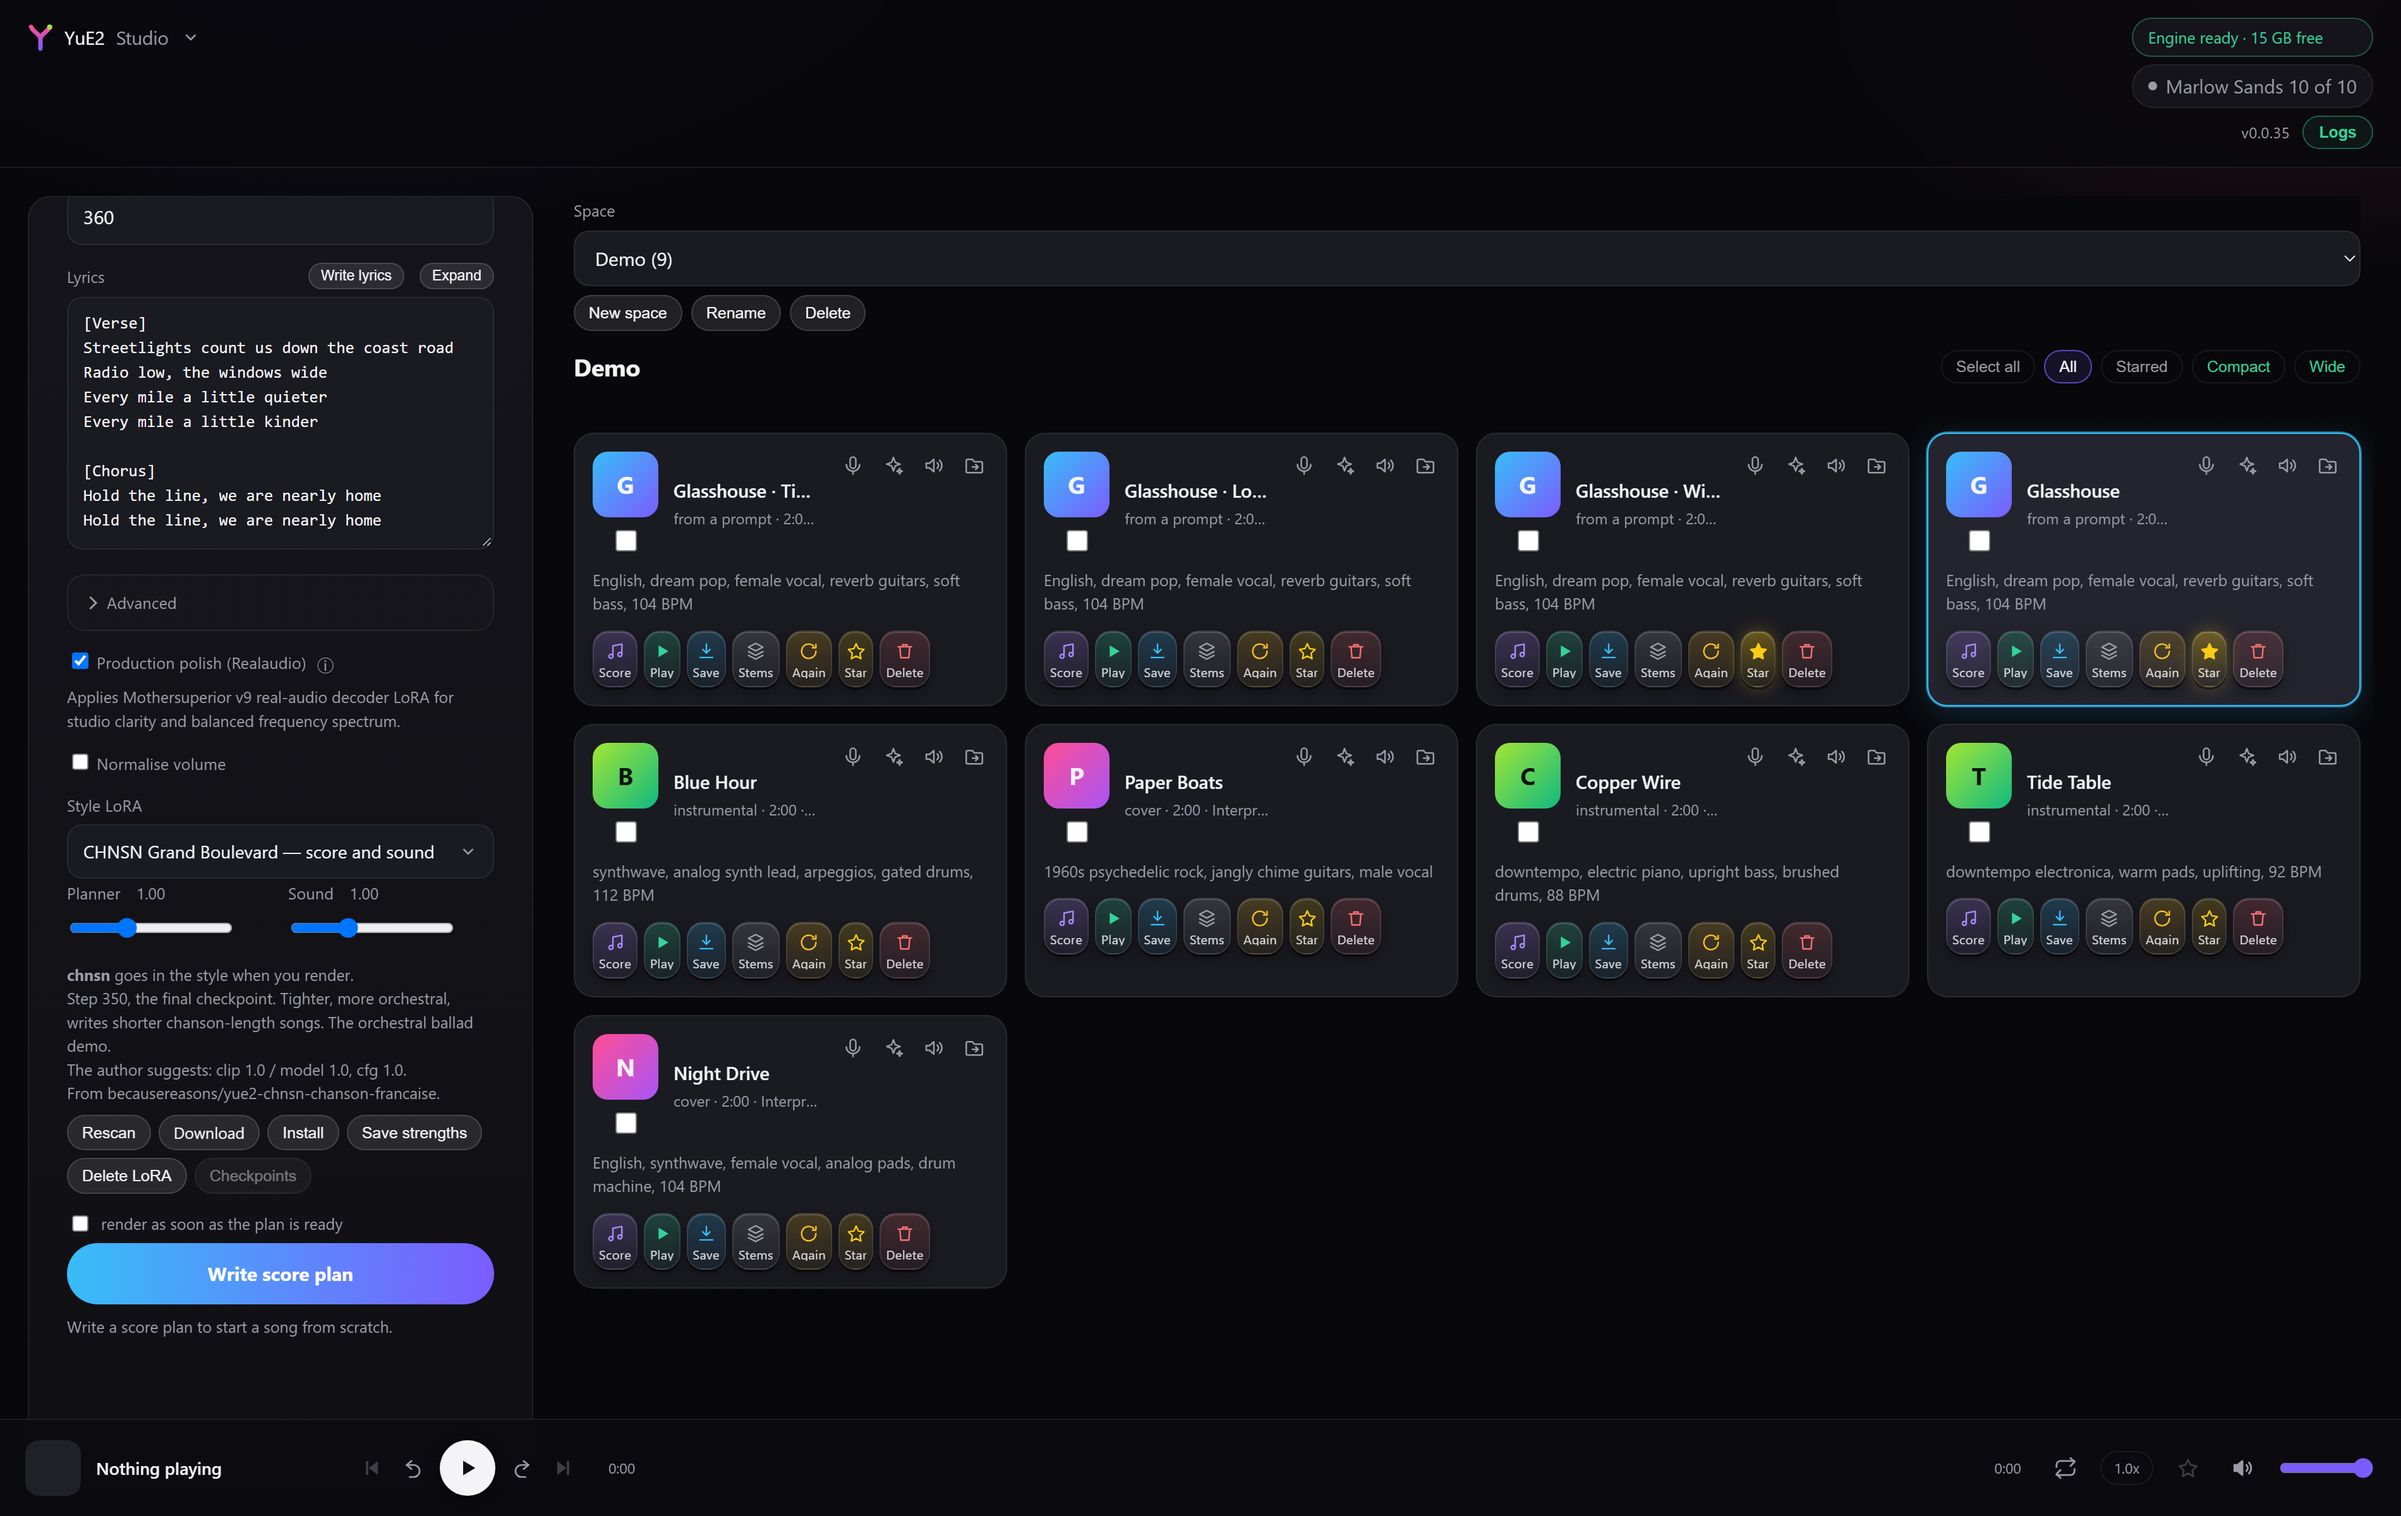
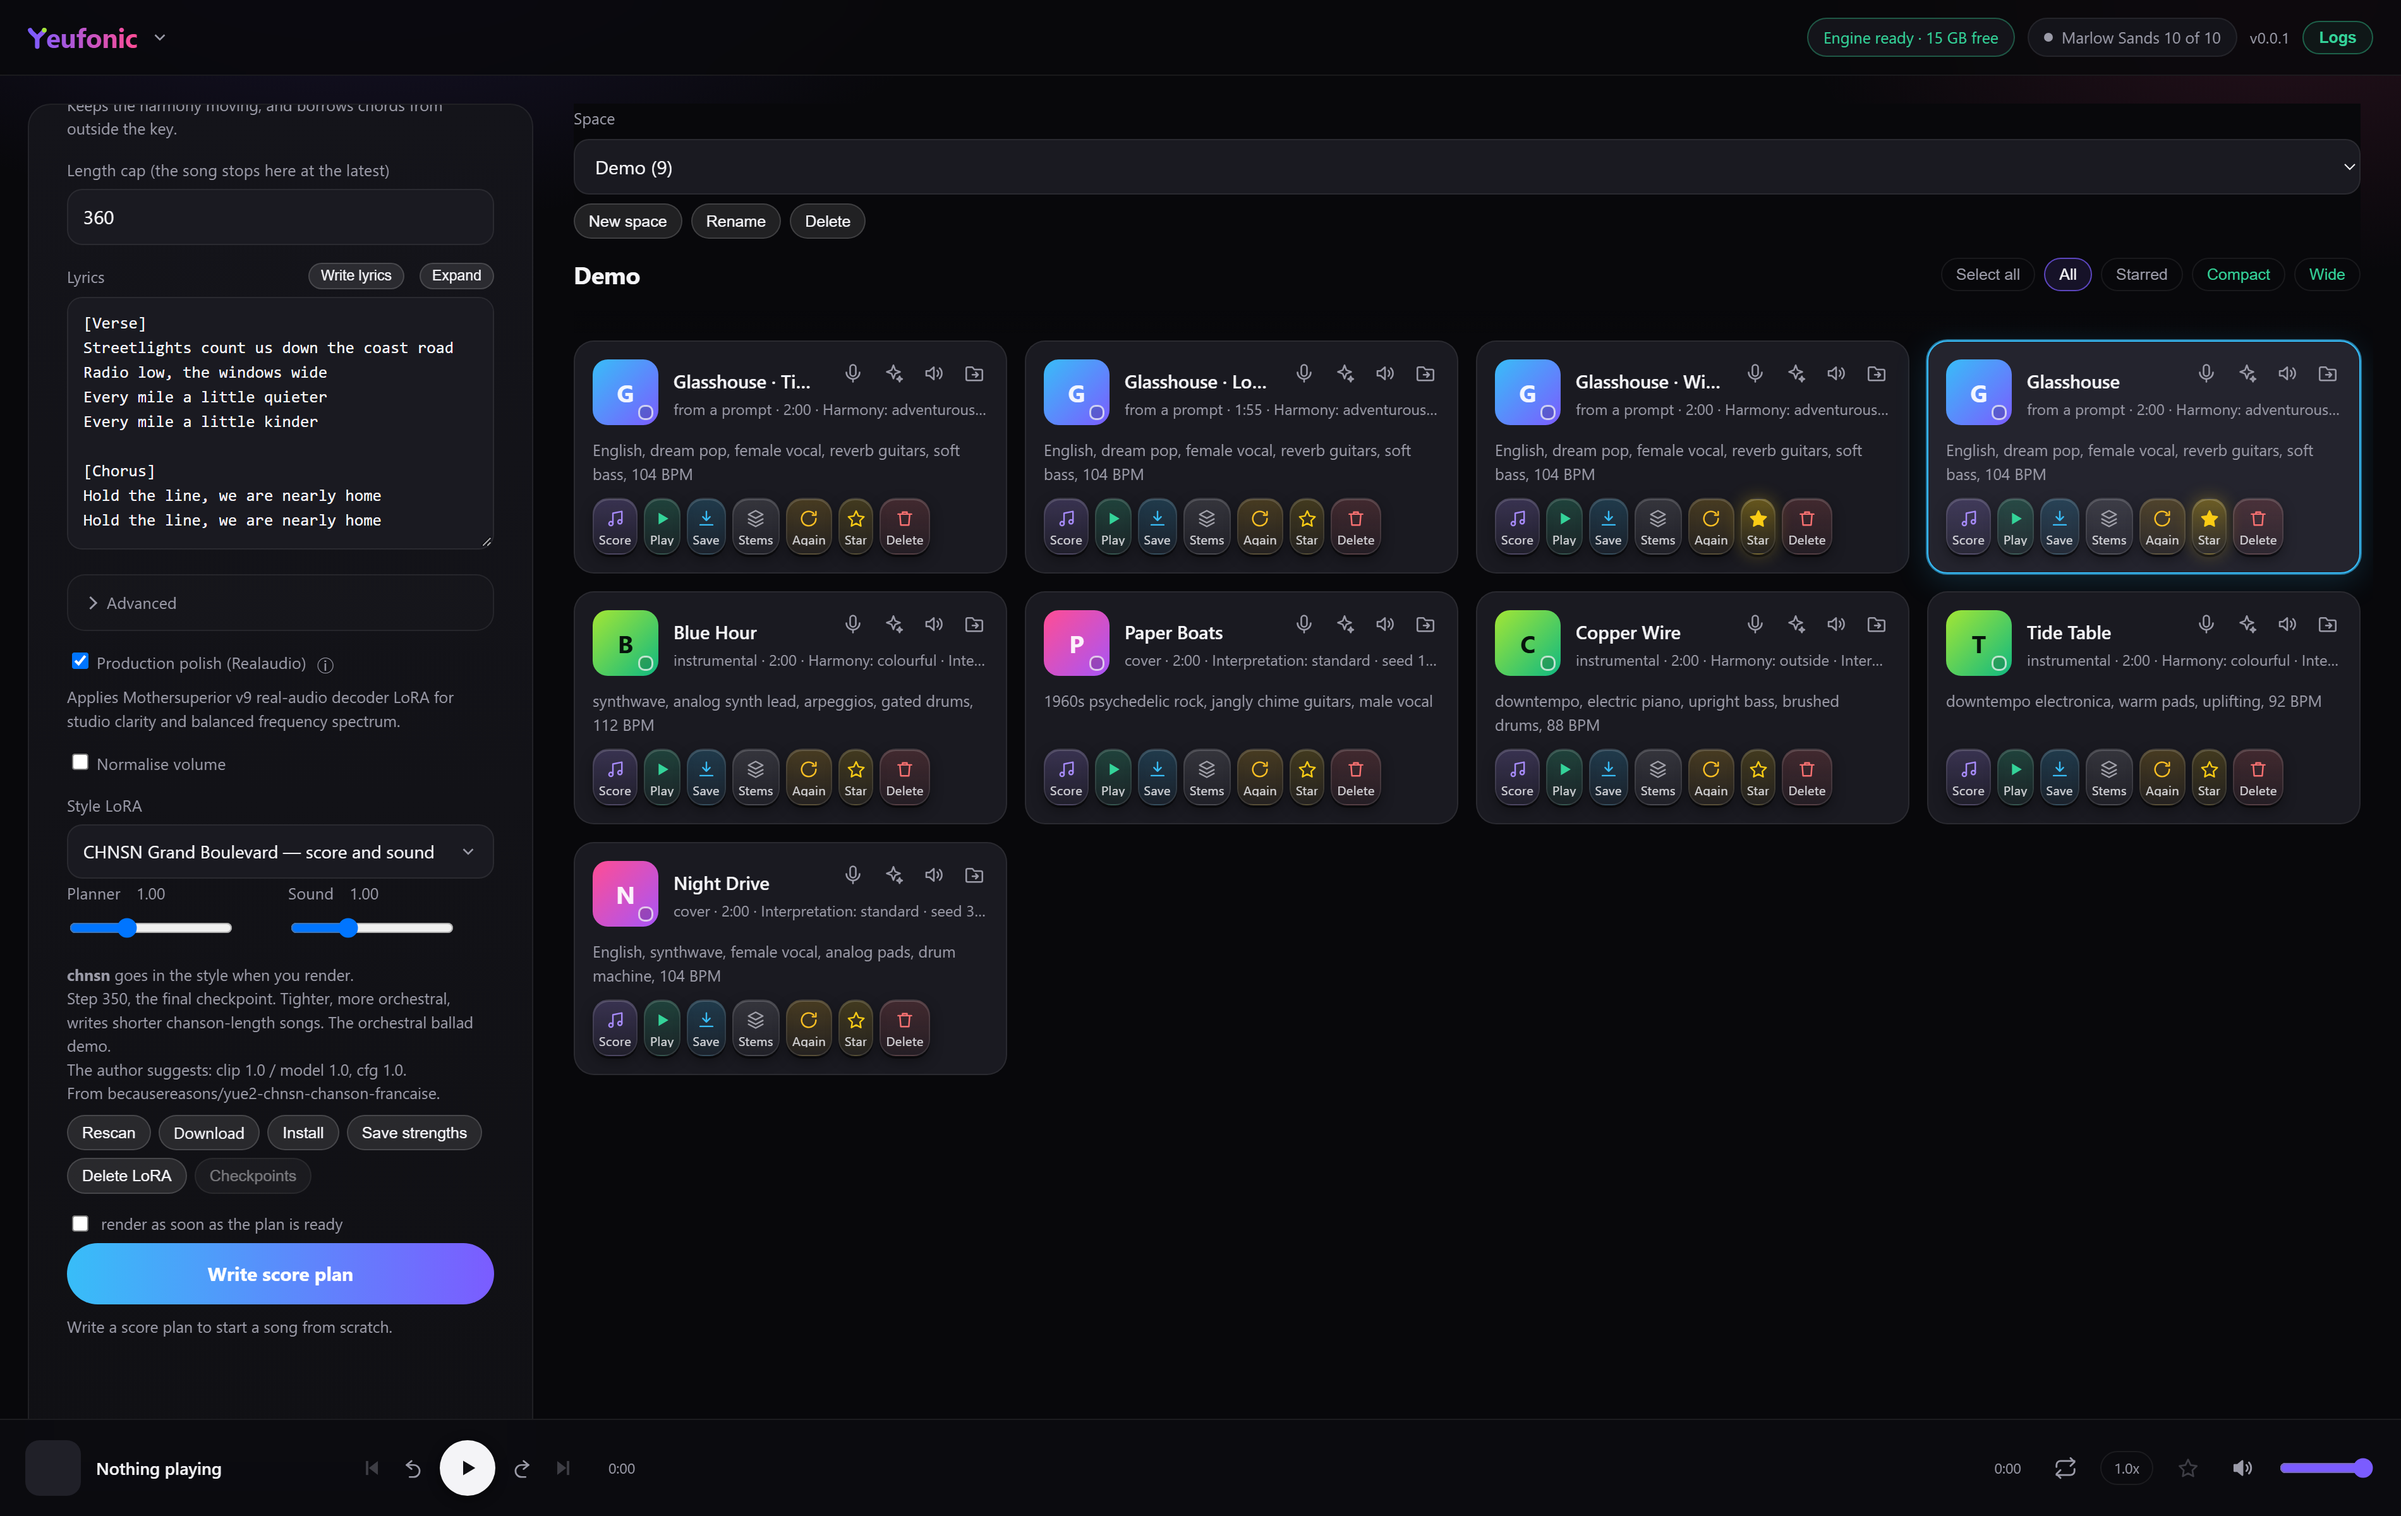
README: the move from YuE2 Studio, and screenshots retaken
A notice at the top tells YuE2 Studio users the app has a new name and a
new repository, and points them to the steps for moving across. The
screenshots show the Yeufonic header and the shorter take cards, and the
Comfy description no longer promises the whole prompt on the card.

diff --git a/README.md b/README.md
@@ -1,5 +1,11 @@
 # <img src="app/static/icon.svg" alt="" width="40" align="top"> Yeufonic
 
+> **YuE2 Studio is now Yeufonic.** It's the same app under a new name, with the version numbers
+> starting again at 0.0.1. The old repository,
+> [dynamohum/YuE2gen-studio](https://github.com/dynamohum/YuE2gen-studio), is archived and gets
+> no more updates. If you use YuE2 Studio, your library, settings, LoRAs and models all come
+> across: see [Moving from YuE2 Studio](#moving-from-yue2-studio).
+
 A web interface for [YuE2](https://github.com/multimodal-art-projection/YuE), the open music
 model. Write a song from a prompt, or cover your own recording. Edit the score either way,
 then pull the stems out of the result.
@@ -31,8 +37,9 @@ Covering a recording, with the score editor open:
 
 [![Cover a recording](docs/screenshots/cover-a-recording.png)](https://raw.githubusercontent.com/yeufonic/yeufonic/main/docs/screenshots/full/cover-a-recording.png)
 
-The same library with **Wide** and **Comfy** on: the page fills the window, and each card shows
-the whole prompt and every setting the take was made with. Compact cards are what you start with:
+The same library with **Wide** and **Comfy** on: the page fills the window, and the cards are
+wider, with room for the full title. Hover over a card's settings or prompt to read all of it.
+Compact cards are what you start with:
 
 [![Comfy layout](docs/screenshots/comfy-layout.png)](https://raw.githubusercontent.com/yeufonic/yeufonic/main/docs/screenshots/full/comfy-layout.png)
 
